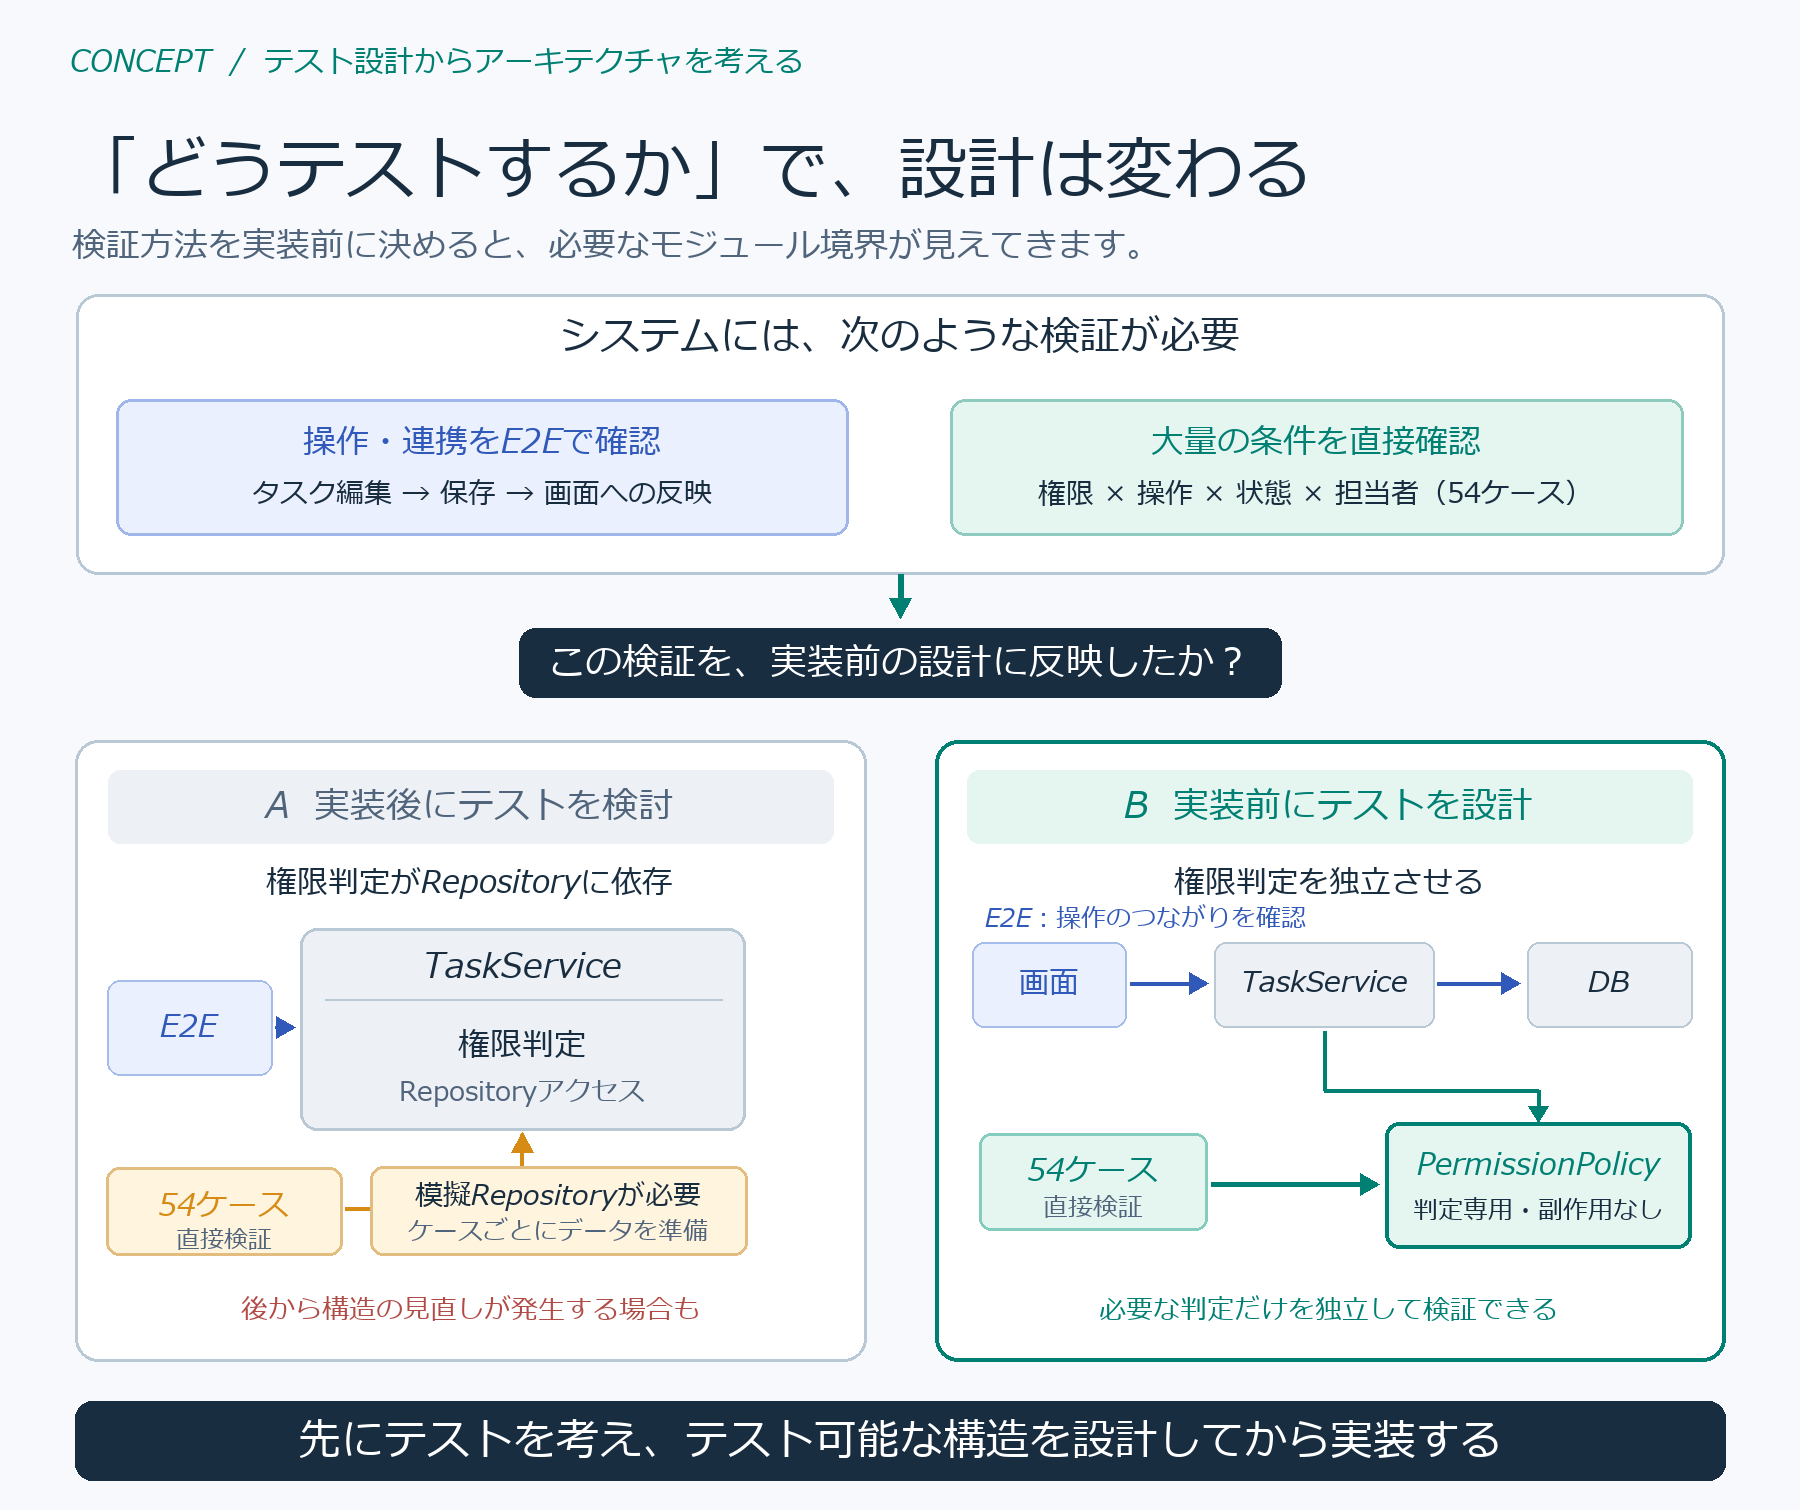
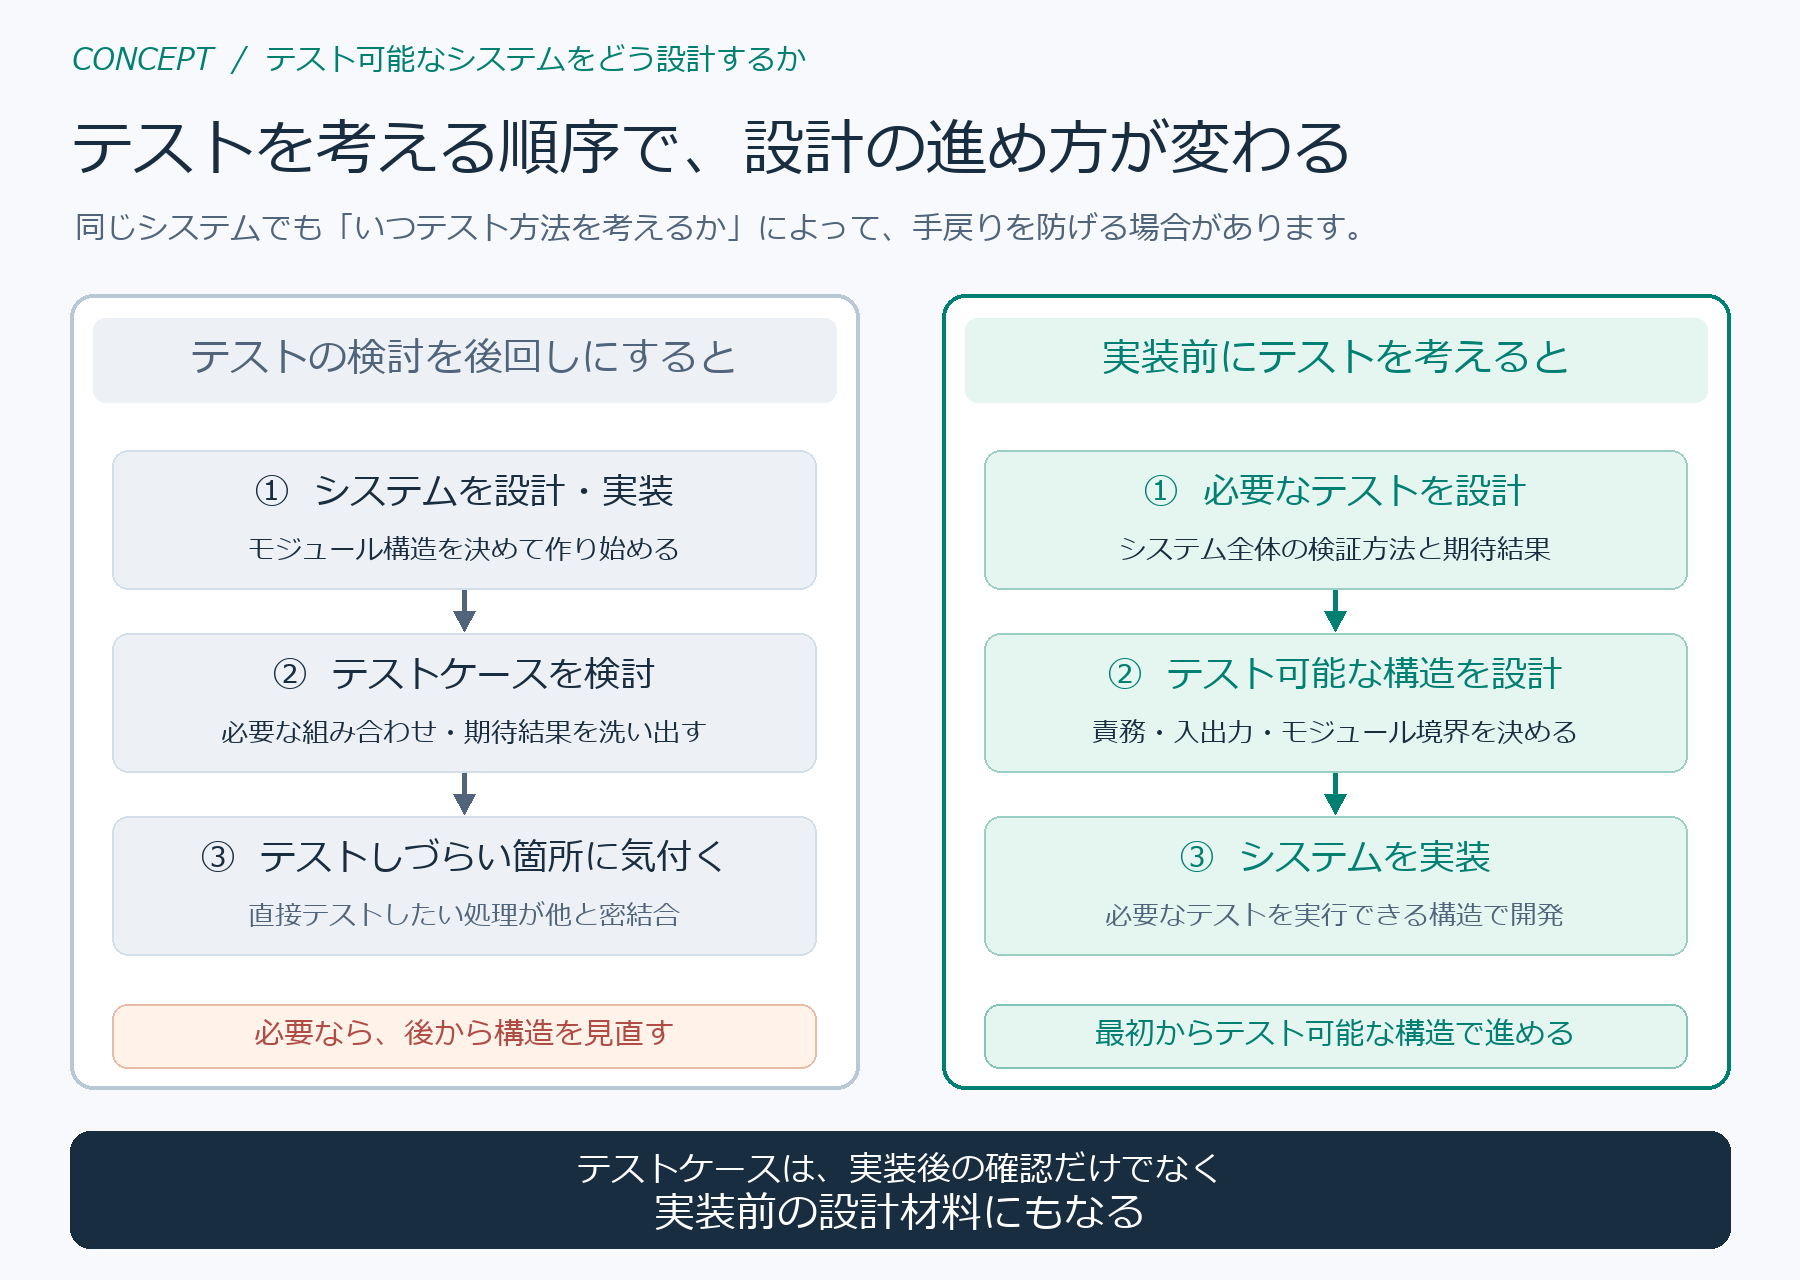
Show test-design timing as opening article concept

diff --git a/scripts/build-ai-era-test-diagrams.py b/scripts/build-ai-era-test-diagrams.py
@@ -50,82 +50,54 @@ def save(im,name):
     im.save(OUT/name,optimize=True)
     print(str(OUT/name),im.size)
 
-# 1) Hero concept: same validation needs, different architecture outcomes.
-# The thesis is testability designed BEFORE implementation, not a fixed E2E/Unit ratio.
-im,d=canvas(1800,1510)
-txt(d,(70,40),"CONCEPT  /  テスト設計からアーキテクチャを考える",30,TEAL,True)
-txt(d,(70,120),"「どうテストするか」で、設計は変わる",69,INK,True)
-txt(d,(72,220),"検証方法を実装前に決めると、必要なモジュール境界が見えてきます。",34,SUB)
+# 1) The article's ONE core concept: compare when test design is considered.
+# Keep concrete E2E/unit examples in the later diagrams, not this opening concept.
+im,d=canvas(1800,1280)
+txt(d,(72,38),"CONCEPT  /  テスト可能なシステムをどう設計するか",30,TEAL,True)
+txt(d,(72,105),"テストを考える順序で、設計の進め方が変わる",61,INK,True)
+txt(d,(75,206),"同じシステムでも「いつテスト方法を考えるか」によって、手戻りを防げる場合があります。",31,SUB)
 
-# Input: shared, required verification for a task management system
-rect(d,(76,294,1724,574),WHITE,LINE,22,3)
-center(d,900,337,"システムには、次のような検証が必要",40,INK,True)
-rect(d,(116,399,848,535),BLUE_L,"#A0B6EB",15,3)
-center(d,482,443,"操作・連携をE2Eで確認",33,BLUE,True)
-center(d,482,494,"タスク編集 → 保存 → 画面への反映",28,INK)
-rect(d,(950,399,1683,535),TEAL_L,"#8ECBBE",15,3)
-center(d,1316,443,"大量の条件を直接確認",33,TEAL,True)
-center(d,1316,494,"権限 × 操作 × 状態 × 担当者（54ケース）",28,INK)
+# Two distinct approaches side-by-side, with the same number of stages.
+panels=[
+    (70,859,LINE,WHITE,"テストの検討を後回しにすると",SUB),
+    (942,1730,TEAL,WHITE,"実装前にテストを考えると",TEAL),
+]
+for x0,x1,border,background,heading,hcolor in panels:
+    rect(d,(x0,294,x1,1089),background,border,23,4)
+    rect(d,(x0+23,318,x1-23,402),GRAY_L if x0==70 else TEAL_L,GRAY_L if x0==70 else TEAL_L,12,2)
+    center(d,(x0+x1)//2,359,heading,39,hcolor,True)
 
-# Contrast what changes in architecture when testing is considered before implementation
-down(d,900,574,618,TEAL,6)
-rect(d,(519,628,1281,697),INK,INK,16)
-center(d,900,663,"この検証を、実装前の設計に反映したか？",37,WHITE,True)
+left_steps=[
+    ("①  システムを設計・実装","モジュール構造を決めて作り始める"),
+    ("②  テストケースを検討","必要な組み合わせ・期待結果を洗い出す"),
+    ("③  テストしづらい箇所に気付く","直接テストしたい処理が他と密結合"),
+]
+right_steps=[
+    ("①  必要なテストを設計","システム全体の検証方法と期待結果"),
+    ("②  テスト可能な構造を設計","責務・入出力・モジュール境界を決める"),
+    ("③  システムを実装","必要なテストを実行できる構造で開発"),
+]
+for x0,x1,steps,color,fill,border in [
+    (112,816,left_steps,INK,GRAY_L,"#D4DEE8"),
+    (984,1687,right_steps,TEAL,TEAL_L,"#9CCFC3"),
+]:
+    cx=(x0+x1)//2
+    for i,(heading,desc) in enumerate(steps):
+        y=450+i*183
+        rect(d,(x0,y,x1,y+139),fill,border,16,2)
+        center(d,cx,y+42,heading,36,color,True)
+        center(d,cx,y+100,desc,27,INK if i!=2 else SUB)
+        if i<2:down(d,cx,y+140,y+181,SUB if x0==112 else TEAL,5)
 
-# Comparison panels, no conflation of testing phase and design phase
-rect(d,(75,740,866,1361),WHITE,LINE,23,3)
-rect(d,(935,740,1725,1361),WHITE,TEAL,23,4)
-rect(d,(108,770,833,843),GRAY_L,GRAY_L,12)
-rect(d,(967,770,1692,843),TEAL_L,TEAL_L,12)
-center(d,470,806,"A  実装後にテストを検討",36,SUB,True)
-center(d,1329,806,"B  実装前にテストを設計",36,TEAL,True)
+# Outcome of each approach
+rect(d,(112,1004,816,1068),"#FFF2E8","#E9BCA9",15,2)
+center(d,464,1035,"必要なら、後から構造を見直す",30,RED,True)
+rect(d,(984,1004,1687,1068),TEAL_L,"#80C5B7",15,2)
+center(d,1335,1035,"最初からテスト可能な構造で進める",30,TEAL,True)
 
-center(d,470,883,"権限判定がRepositoryに依存",31,INK,True)
-center(d,1329,883,"権限判定を独立させる",31,INK,True)
-
-# A: Service contains the decision logic and database dependency
-rect(d,(300,928,745,1130),GRAY_L,LINE,17,3)
-center(d,522,967,"TaskService",34,INK,True)
-line(d,[(325,999),(722,999)],LINE,2)
-center(d,522,1046,"権限判定",32,INK,True)
-center(d,522,1092,"Repositoryアクセス",27,SUB)
-rect(d,(107,980,272,1075),BLUE_L,"#A6BCEB",13,2)
-center(d,189,1027,"E2E",31,BLUE,True)
-right(d,275,1027,295,BLUE,3)
-rect(d,(106,1167,342,1255),"#FFF4DD","#E3BC80",13,3)
-center(d,224,1206,"54ケース",31,AMBER,True)
-center(d,224,1240,"直接検証",24,SUB)
-line(d,[(345,1208),(522,1208),(522,1134)],AMBER,4)
-d.polygon([(511,1152),(533,1152),(522,1132)],fill=AMBER)
-rect(d,(370,1166,747,1255),"#FFF4DD","#E3BC80",13,3)
-center(d,558,1196,"模擬Repositoryが必要",28,INK,True)
-center(d,558,1232,"ケースごとにデータを準備",25,SUB)
-center(d,471,1310,"後から構造の見直しが発生する場合も",27,RED)
-
-# B: integration path is preserved, direct scripted access to a policy is possible
-rect(d,(972,942,1126,1027),BLUE_L,"#A6BCEB",12,2)
-center(d,1049,984,"画面",30,BLUE,True)
-rect(d,(1214,942,1434,1027),GRAY_L,LINE,12,2)
-center(d,1324,983,"TaskService",29,INK,True)
-rect(d,(1527,942,1692,1027),GRAY_L,LINE,12,2)
-center(d,1609,983,"DB",29,INK,True)
-right(d,1130,983,1208,BLUE,4)
-right(d,1437,983,1520,BLUE,4)
-txt(d,(985,900),"E2E：操作のつながりを確認",25,BLUE,True)
-
-rect(d,(979,1133,1207,1230),TEAL_L,"#84CDBE",12,3)
-center(d,1093,1171,"54ケース",31,TEAL,True)
-center(d,1093,1208,"直接検証",25,SUB)
-rect(d,(1385,1122,1691,1248),TEAL_L,TEAL,14,4)
-center(d,1538,1166,"PermissionPolicy",30,TEAL,True)
-center(d,1538,1211,"判定専用・副作用なし",25,INK)
-right(d,1211,1184,1379,TEAL,5)
-line(d,[(1324,1031),(1324,1090),(1538,1090),(1538,1118)],TEAL,4)
-d.polygon([(1528,1106),(1548,1106),(1538,1122)],fill=TEAL)
-center(d,1329,1310,"必要な判定だけを独立して検証できる",27,TEAL,True)
-
-rect(d,(75,1401,1725,1480),INK,INK,17)
-center(d,900,1441,"先にテストを考え、テスト可能な構造を設計してから実装する",43,WHITE,True)
+rect(d,(70,1131,1730,1248),INK,INK,20)
+center(d,900,1170,"テストケースは、実装後の確認だけでなく",34,WHITE,True)
+center(d,900,1214,"実装前の設計材料にもなる",41,WHITE,True)
 save(im,"hero.png")
 
 # 2) Flowchart, DESIGN PHASE ONLY. Selection is driven by required tests.
